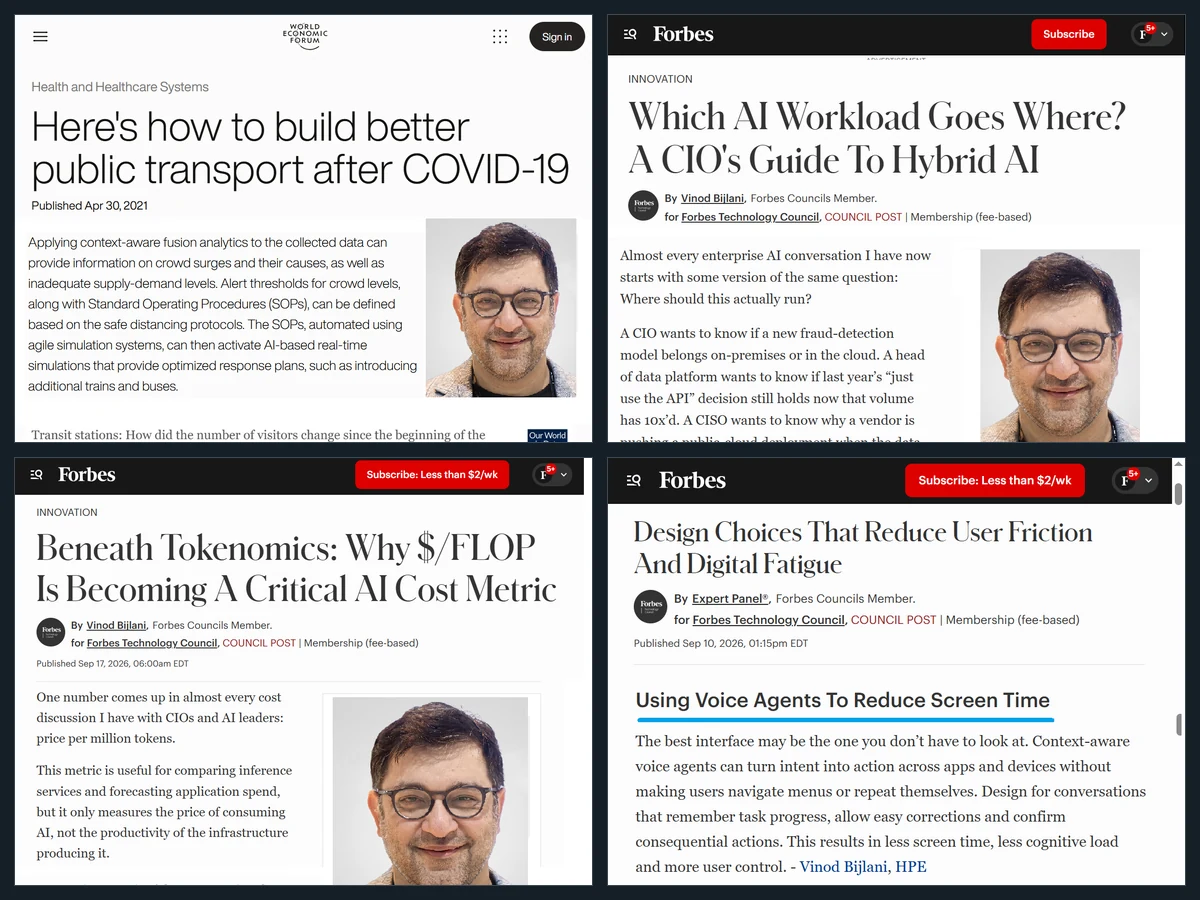
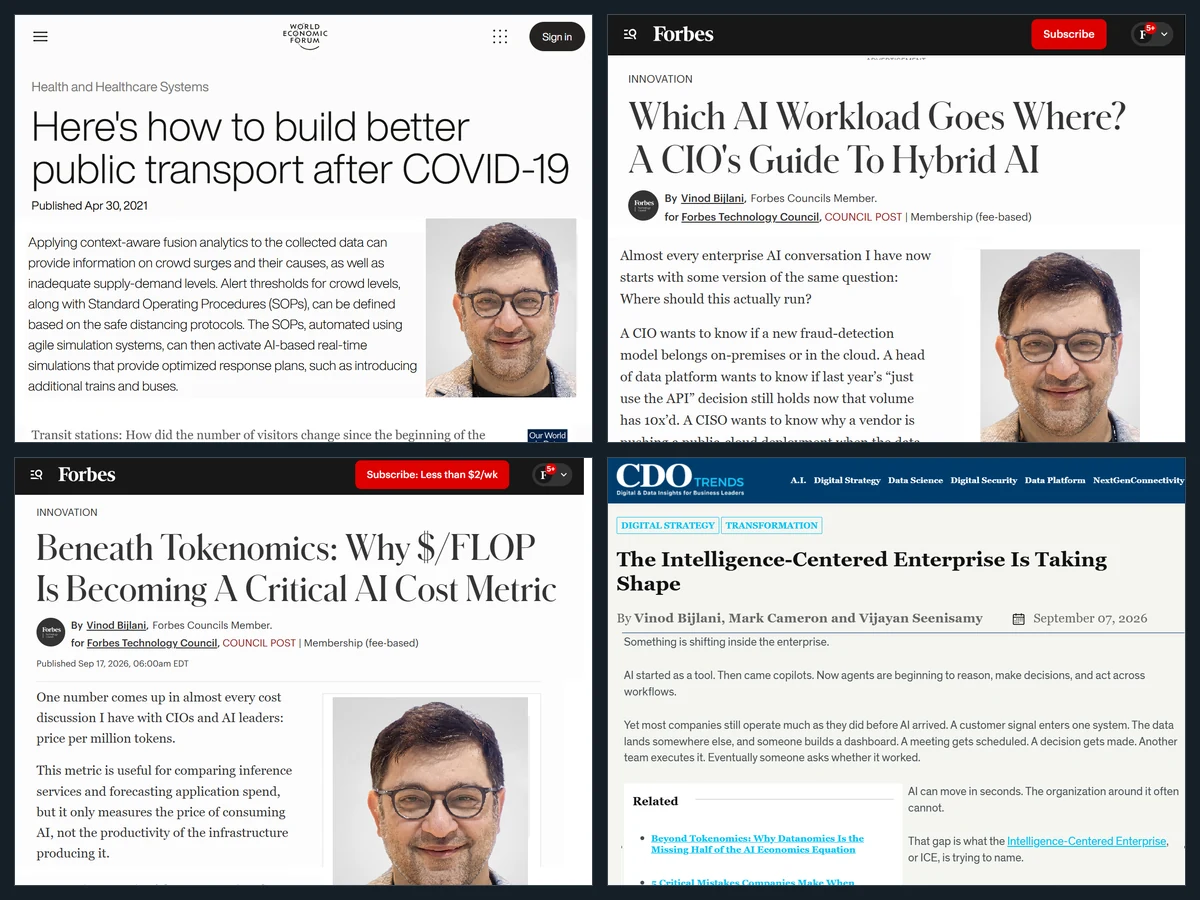
Publications collage: add CDOTrends ICE article, two Forbes; link it from the ICE whitepaper
Claude-Session: https://claude.ai/code/session_019hRqF7TGmeS8rJ7w625ae3

Changed region(s): [[0.4933, 0.4978, 0.9867, 0.9956]]

diff --git a/build.py b/build.py
@@ -752,7 +752,8 @@ def build_publications():
         spotlight += (f'<article class="wp-card"><div><span class="mono">Whitepaper · {e(wp["outlet"])} · {e(date_display(wp["date"]))}</span>'
                       f'<h3>{e(wp["title"])}</h3><p class="wp-authors">{e(wp.get("authors", ""))}</p><p>{e(wp.get("summary", ""))}</p></div>'
                       f'<div class="wp-side"><ul>' + "".join(f"<li>{e(x)}</li>" for x in wp.get("covers", [])) + '</ul>'
-                      f'<a class="btn primary" href="{e(wp["url"])}">Read the whitepaper ↗</a></div></article>')
+                      f'<div class="cta" style="margin-top:0"><a class="btn primary" href="{e(wp["url"])}">Read the whitepaper ↗</a>'
+                      + (f'<a class="btn" href="{e(wp["related"]["url"])}">Read on CDOTrends ↗</a>' if wp.get("related") else "") + '</div></div></article>')
     body = page_head("04", "Publications", "Articles and expert panels on AI factories and sovereign AI for the Forbes Technology Council, CDOTrends, The Business Times and more.",
                      [(len(ARTICLES), "publications"), (N_FORBES, "Forbes articles")], page_art(pg, "publications"),
                      '<span class="mono">Published in</span>' + " · ".join(e(o) for o in FEATURED_OUTLETS) + f" and {outlets - len(FEATURED_OUTLETS)} more") + \
